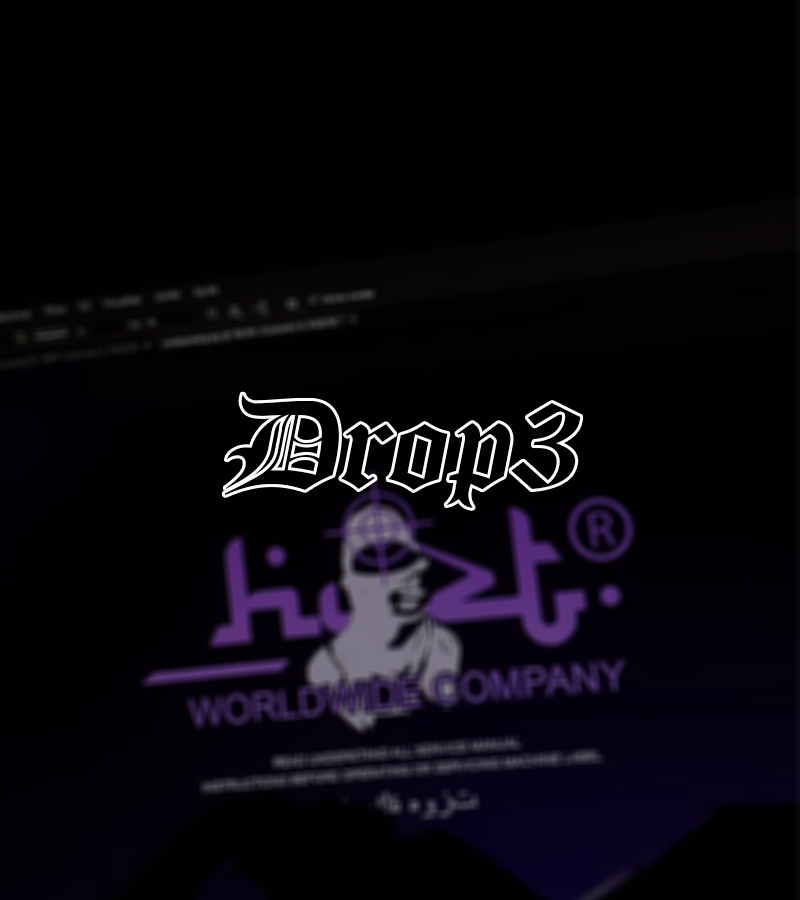
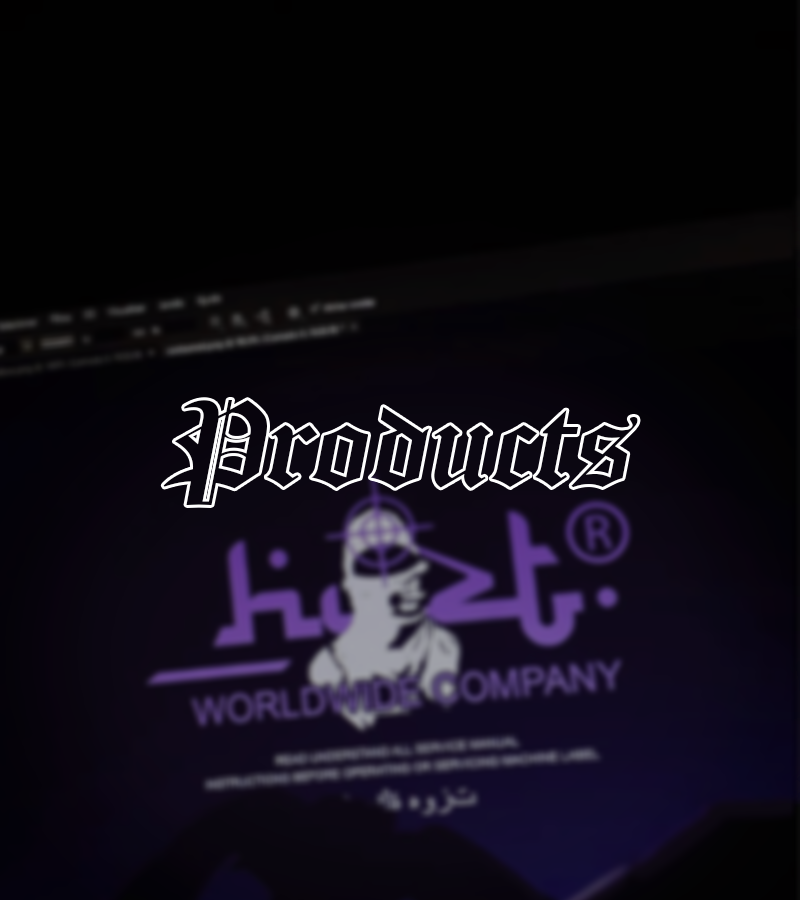
Shop added

Changed region(s): [[0.1875, 0.4356, 0.8125, 0.9022], [0.0, 0.3111, 0.4688, 0.4044], [0.6875, 0.9644, 0.7812, 1.0]]

diff --git a/shop.html b/shop.html
@@ -8,7 +8,7 @@
     <title>huzt website</title>
     <link rel="stylesheet" href="css/shop.css">
     <link rel="stylesheet" href="fonts/fonts.css">
-    <script defer async src="main.js"></script>
+    <script defer async src="shop.js"></script>
 </head>
 
 <body>
@@ -16,26 +16,67 @@
         <img id="logo-header" src="images/logo.png">
         <div class="menu">
             <a class="menu__item" href="index.html">HOME</a>
-            <a class="menu__item" href="#">SHOP</a>
+            <a class="menu__item" href="shop.html">SHOP</a>
             <a class="menu__item" href="#">LOOKBOOK</a>
-            <a class="menu__item" href="#">ABOUT</a>
+            <a class="menu__item" href="about.html">ABOUT</a>
         </div>
     </header>
-    
+
     <main>
-        <h1 id="titulo-drop-3">Drop3</h1>
+        <h1 id="titulo-drop-3">Drops</h1>
         <div class="produto-container">
             <div class="produto">
                 <img id="camiseta-roxa" src="images/purple.png">
-                <p class="nome-produto"><strong class="huzt-strong">Huzt</strong> Arabic T-Shirt - Purple</p>
+                <!-- <img class="disabled" id="frente-roxa" src="images/frenteroxo.png"> -->
+                <div class="descricao-produto">
+                    <p class="nome-produto"><strong class="huzt-strong">Huzt</strong> Arabic T-Shirt - Purple</p>
+                    <p class="price"><strong>R$80,00</strong></p>
+                </div>
+                <button id="botao-buy"><strong>BUY</strong></button>
             </div>
             <div class="produto">
-                <img id="camiseta-roxa" src="images/red.png">
-                <p class="nome-produto"><strong class="huzt-strong">Huzt</strong> Arabic T-Shirt - Purple</p>
+                <img id="camiseta-vermelha" src="images/red.png">
+                <div class="descricao-produto">
+                    <p class="nome-produto"><strong class="huzt-strong">Huzt</strong> Arabic T-Shirt - Red</p>
+                    <p class="price"><strong>R$80,00</strong></p>
+                </div>
+                <button id="botao-buy"><strong>BUY</strong></button>
             </div>
             <div class="produto">
-                <img id="camiseta-roxa" src="images/yellow.png">
-                <p class="nome-produto"><strong class="huzt-strong">Huzt</strong> Arabic T-Shirt - Purple</p>
+                <img id="balaclava" src="images/balaclava.png">
+                <div class="descricao-produto">
+                    <p class="nome-produto"><strong class="huzt-strong">Huzt</strong> Balaclava - DROP3</p>
+                    <p class="price"><strong>COMING SOON</strong></p>
+                </div>
+                <button id="botao-buy"><strong>BUY</strong></button>
+                <p class="esgotado">Coming Soon</p>
+            </div>
+            <div class="produto">
+                <img id="camiseta-preta" src="images/costa-preta.jpg">
+                <div class="descricao-produto">
+                    <p class="nome-produto"><strong class="huzt-strong">Huzt</strong> All dreams reserved - DROP2</p>
+                    <p class="price"><strong>R$80,00</strong></p>
+                </div>
+                <button id="botao-buy"><strong>BUY</strong></button>
+                <p class="esgotado">Esgotado</p>
+            </div>
+            <div class="produto">
+                <img id="camiseta-branca" src="images/costa-branca.jpg">
+                <div class="descricao-produto">
+                    <p class="nome-produto"><strong class="huzt-strong">Huzt</strong> All dreams reserved - DROP2</p>
+                    <p class="price"><strong>R$80,00</strong></p>
+                </div>
+                <button id="botao-buy"><strong>BUY</strong></button>
+                <p class="esgotado">Esgotado</p>
+            </div>
+            <div class="produto">
+                <img id="camiseta-drop1" src="images/frente-drop1.png">
+                <div class="descricao-produto">
+                    <p class="nome-produto"><strong class="huzt-strong">Huzt</strong> All dreams reserved - DROP2</p>
+                    <p class="price"><strong>R$80,00</strong></p>
+                </div>
+                <button id="botao-buy"><strong>BUY</strong></button>
+                <p class="esgotado">Esgotado</p>
             </div>
         </div>
     </main>

diff --git a/css/shop.css b/css/shop.css
@@ -19,25 +19,79 @@ main {
     margin-top: 3rem;
     max-width: 70%;
     display: grid;
-    grid-template-columns: repeat(auto-fit, minmax(15rem, 1fr));
+    grid-template-columns: repeat(auto-fit, minmax(20rem, 1fr));
     gap: 4rem;
 }
 
 .produto {
+    position: relative;
     cursor: pointer;
+    transition: all 0.2s;
+    padding-bottom: 15px;
 }
 
-#camiseta-roxa
+.produto #camiseta-preta, 
+.produto #camiseta-branca,
+.produto #camiseta-drop1,
+.produto #balaclava {
+    opacity: 55%;
+    transition: all .3s;
+}
+
+.produto:hover{
+    border: solid 3px var(--color-white);
+}
+
+.price {
+    color: var(--color-white);
+    font-size: min(1.4rem, 3vw);
+    margin-top: .5rem;
+}
 
 .nome-produto{
     margin-top: 1rem;
     color: var(--color-white);
-    font-family: Arial, Helvetica, sans-serif;
-    font-size: min(1.4rem, 4vw);
+    font-size: min(1.6rem, 4vw);
 }
 
 .nome-produto .huzt-strong {
     color: var(--color-white);
+}
+
+.esgotado {
+    position: absolute;
+    left: 50%;
+    top: 30%;
+    transform: translate(-50%, -30%);
+    color: transparent;
+    white-space: nowrap;
+    font-family: medieval;
+    font-size: min(2.6rem, 7vw);
+    transition: all .5s;
+}
+
+.produto:hover .esgotado {
+    font-size: min(3.6rem, 7vw);
+    -webkit-text-stroke-width: 2.5px;
+    -webkit-text-stroke-color: var(--color-off-white);
+}
+
+#botao-buy{
+    width: 40%;
+    padding: .6rem;
+    margin: 1rem 0;
+    border-radius: .1rem;
+    font-size: 1.6rem;
+    background-color: transparent;
+    border: 1px solid var(--color-white);
+    color: var(--color-white);
+    transition: all 0.5s;
+}
+
+#botao-buy:hover{
+    transform: scale(1.1);
+    background-color: var(--color-white);
+    color: var(--color-black);
 }
 
 footer {

diff --git a/about.html b/about.html
@@ -1,0 +1,35 @@
+<!DOCTYPE html>
+<html lang="en">
+
+<head>
+    <meta charset="UTF-8">
+    <meta http-equiv="X-UA-Compatible" content="IE=edge">
+    <meta name="viewport" content="width=device-width, initial-scale=1.0">
+    <title>HuztCompany</title>
+    <link rel="stylesheet" href="css/shop.css">
+    <script defer async src="main.js"></script>
+</head>
+
+<body>
+    <header>
+        <img id="logo-header" src="images/logo.png">
+        <div class="menu">
+            <a class="menu__item" href="index.html">HOME</a>
+            <a class="menu__item" href="shop.html">SHOP</a>
+            <a class="menu__item" href="#">LOOKBOOK</a>
+            <a class="menu__item" href="about.html">ABOUT</a>
+        </div>
+    </header>
+
+    <main>
+        <h1 id="titulo-drop-3">About</h1>
+    </main>
+
+    <footer>
+        <p>All rights reserved to HuztCompany
+            &reg;</p>
+        <p>Developer by @arthurlemosgr @emanuelmaarques.</p>
+    </footer>
+</body>
+
+</html>

diff --git a/index.html b/index.html
@@ -5,7 +5,7 @@
     <meta charset="UTF-8">
     <meta http-equiv="X-UA-Compatible" content="IE=edge">
     <meta name="viewport" content="width=device-width, initial-scale=1.0">
-    <title>huzt website</title>
+    <title>HuztCompany</title>
     <link rel="stylesheet" href="css/style.css">
     <script defer async src="main.js"></script>
 </head>
@@ -14,10 +14,10 @@
     <header>
         <img id="logo-header" src="images/logo.png">
         <div class="menu">
-            <a class="menu__item" href="#">HOME</a>
+            <a class="menu__item" href="index.html">HOME</a>
             <a class="menu__item" href="shop.html">SHOP</a>
             <a class="menu__item" href="#">LOOKBOOK</a>
-            <a class="menu__item" href="#">ABOUT</a>
+            <a class="menu__item" href="about.html">ABOUT</a>
         </div>
     </header>
 

diff --git a/css/style.css b/css/style.css
@@ -11,6 +11,7 @@ main {
 }
 
 #foto-drop {
+    transition: all 0.5s;
     border: 2px solid var(--color-white);
     filter: saturate(0%);
     cursor: pointer;
@@ -25,7 +26,6 @@ main {
 
 #foto-drop:hover {
     transform: scale(1.1);
-    transition: all 0.5s;
     filter: saturate(200%);
     border: solid var(--color-white) 5px;
 }

diff --git a/css/variables.css b/css/variables.css
@@ -10,6 +10,8 @@
     box-sizing: border-box;
     text-decoration: none;
     list-style-type: none;
+
+    font-family: 'Times New Roman', Times, serif;
 }
 
 body {
@@ -22,6 +24,10 @@ body {
 img {
     display: block;
     width: 100%;
+}
+
+button {
+    cursor: pointer;
 }
 
 header {
